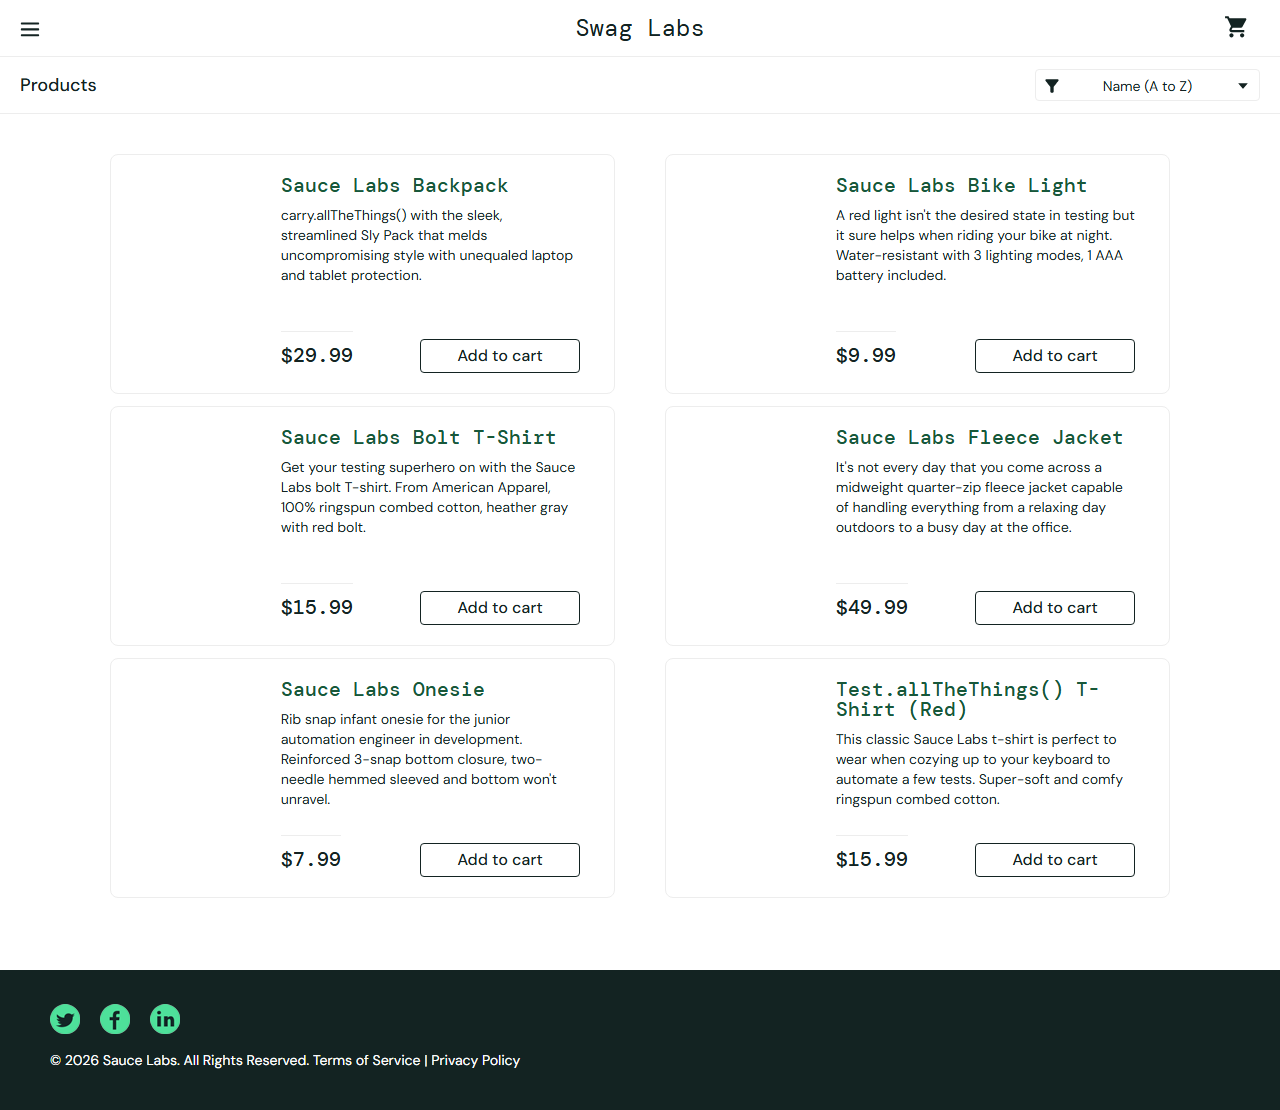
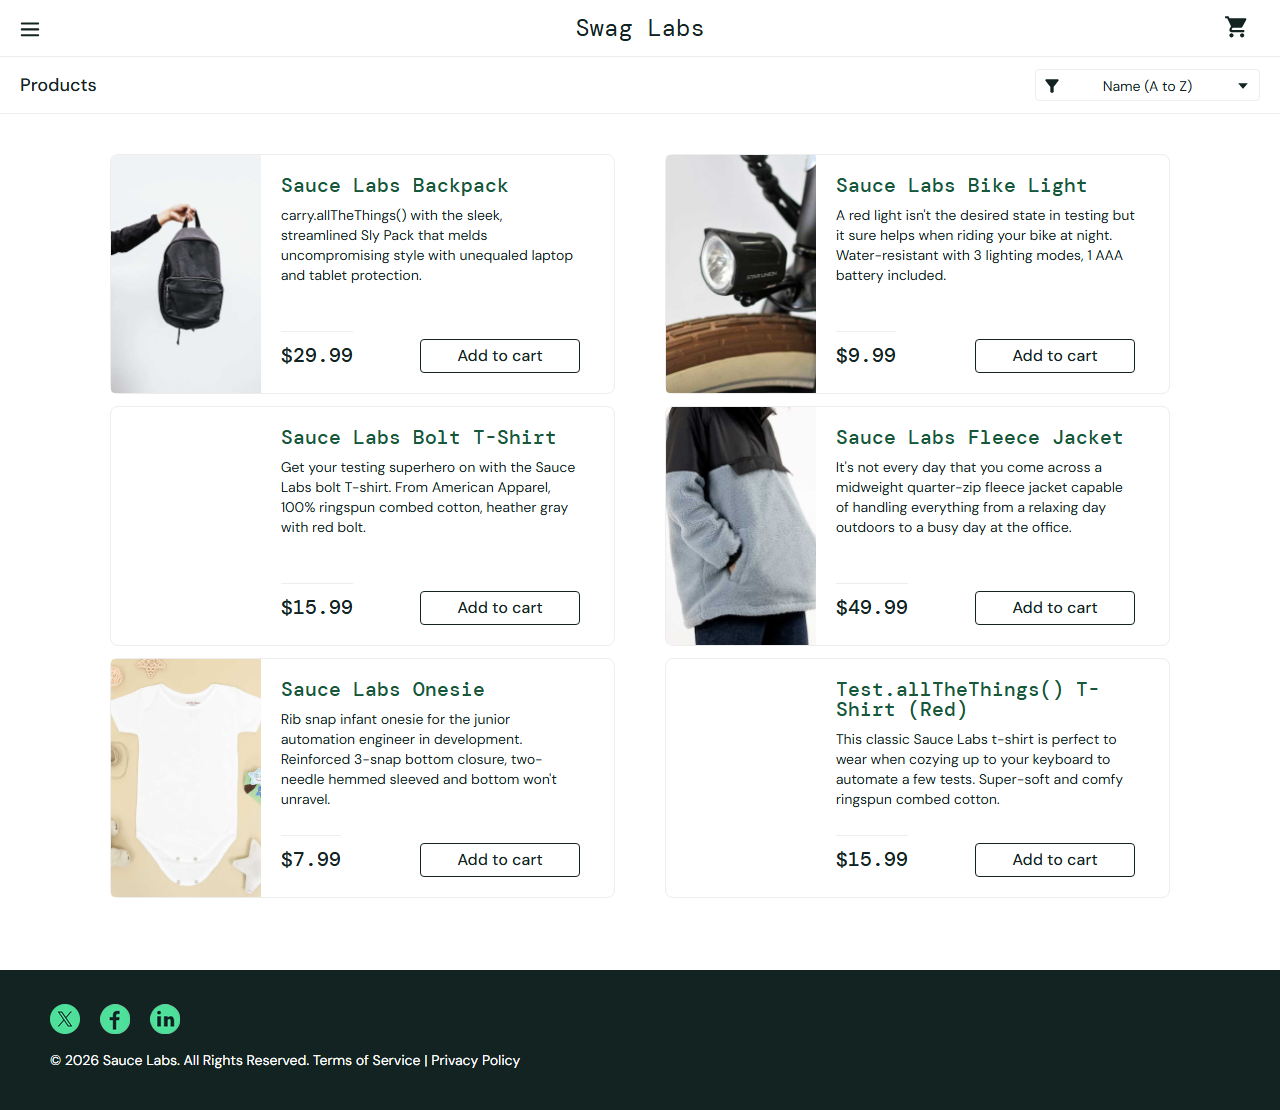
test clase07

diff --git a/tests/clase07.spec.ts b/tests/clase07.spec.ts
@@ -62,78 +62,20 @@ test.describe('Clase 07 - Evidencias de pruebas', () => {
         console.log(`Error capturado: ${textoError}`);
     });
 
-
-    // ─────────────────────────────────────────────────────────────
-    // RETO 1 — test.step()
-    // Cada paso aparece por separado en el reporte HTML y en el trace.
-    // ─────────────────────────────────────────────────────────────
-    test('Reto 1 - Flujo de login estructurado en pasos nombrados', async ({ page }) => {
-        const loginPage = new LoginPage(page);
-        const inventoryPage = new InventoryPage(page);
-
-        await test.step('Navegar a la pagina de login', async () => {
-            await loginPage.navigate();
-            await expect(page.locator('[data-test="login-button"]')).toBeVisible();
-            await page.screenshot({ path: './evidencias/tarea07/reto1-paso1-login.png' });
-        });
-
-        await test.step('Iniciar sesion con standard_user', async () => {
-            await loginPage.login('standard_user', 'secret_sauce');
-            await expect(page).toHaveURL(/inventory/);
-        });
-
-        await test.step('Verificar el inventario cargado', async () => {
-            await inventoryPage.expectToBeOnInventoryPage();
-            await expect(page.locator('.inventory_item')).toHaveCount(6);
-            await page.screenshot({
-                path: './evidencias/tarea07/reto1-paso3-inventario.png', fullPage: true
-            });
-        });
-
-        console.log('Reto 1: test estructurado en 3 pasos nombrados');
+    test('Comparar estados antes y después de una acción', async ({ page }) => {
+         const loginPage = new LoginPage(page);
+         await loginPage.navigate();
+         await loginPage.login('standard_user', 'secret_sauce');
+         // Estado ANTES: sin items en el carrito
+         const estadoAntes = await page.locator('.shopping_cart_badge').isVisible();
+         await page.screenshot({ path: './evidencias/clase07-estado-antes.png' });
+         // Acción
+         await page.locator('.btn_inventory').first().click();
+         // Estado DESPUÉS: badge con número
+         const badgeDespues = page.locator('.shopping_cart_badge');
+         await expect(badgeDespues).toBeVisible();
+         await expect(badgeDespues).toHaveText('1');
+         await page.screenshot({ path: './evidencias/clase07-estado-despues.png' });
+         console.log('Estado antes y después documentados correctamente');
     });
-
-    // ─────────────────────────────────────────────────────────────
-    // RETO 2 — testInfo.attach()
-    // Adjunta un .txt (y un .png) directamente al reporte HTML.
-    // Se accede al segundo parametro del callback: ({ page }, testInfo)
-    // ─────────────────────────────────────────────────────────────
-    test('Reto 2 - Adjuntar datos capturados al reporte HTML', async ({ page }, testInfo) => {
-        const loginPage = new LoginPage(page);
-        await loginPage.navigate();
-        await loginPage.login('standard_user', 'secret_sauce');
-        await expect(page).toHaveURL(/inventory/);
-
-        // Datos capturados en vivo desde la pagina
-        const cantidadProductos = await page.locator('.inventory_item').count();
-        const urlActual = page.url();
-        const fecha = new Date().toLocaleString('es-GT');
-        const primerProducto = await page.locator('.inventory_item_name').first().textContent();
-
-        const contenido = [
-            '=== EVIDENCIA DE EJECUCION - Tarea 07 ===',
-            `Fecha y hora   : ${fecha}`,
-            `URL            : ${urlActual}`,
-            `Navegador      : ${testInfo.project.name}`,
-            `Productos      : ${cantidadProductos}`,
-            `Primer producto: ${primerProducto}`,
-            `Test           : ${testInfo.title}`,
-        ].join('\n');
-
-        // Adjunto 1: archivo de texto con los datos capturados
-        await testInfo.attach('datos-capturados.txt', {
-            body: contenido,
-            contentType: 'text/plain',
-        });
-
-        // Adjunto 2: screenshot en memoria (sin guardarlo en disco)
-        await testInfo.attach('inventario.png', {
-            body: await page.screenshot({ fullPage: true }),
-            contentType: 'image/png',
-        });
-
-        expect(cantidadProductos).toBe(6);
-        console.log(`Reto 2: ${cantidadProductos} productos adjuntados al reporte`);
-    });
-    
 });

diff --git a/reportes/DR-001.md b/reportes/DR-001.md
@@ -1,0 +1,97 @@
+# DR-001 — Reporte de Defecto
+
+| Campo | Valor |
+|---|---|
+| **ID** | DR-001 |
+| **Reportado por** | Brayan Josué Corado Robles — Carné 1790-22-11094 |
+| **Fecha de reporte** | 11 de septiembre de 2026 |
+| **Módulo / Componente** | Carrito de compras — contador (badge) del ícono del carrito |
+| **Severidad** | Media |
+| **Prioridad** | Media |
+| **Estado** | Cerrado — defecto simulado, no reproducible en el sistema real |
+| **Tipo** | Funcional (Adecuación funcional — ISO/IEC 25010) |
+
+---
+
+## Título
+
+El contador del carrito muestra "1" en lugar de "2" después de agregar un producto al carrito.
+
+## Ambiente de pruebas
+
+| Elemento | Detalle |
+|---|---|
+| Aplicación bajo prueba | https://www.saucedemo.com |
+| Navegador | Chromium (Desktop Chrome) — modo headless |
+| Sistema operativo | Windows |
+| Framework | Playwright con TypeScript |
+| Archivo de prueba | `tests/clase07.spec.ts` (línea 77) |
+| Caso de prueba | "Comparar estados antes y después de una acción" |
+
+## Precondiciones
+
+- El usuario `standard_user` existe y está habilitado.
+- El carrito se encuentra vacío al iniciar la sesión.
+
+## Pasos para reproducir
+
+1. Navegar a https://www.saucedemo.com
+2. Iniciar sesión con el usuario `standard_user` y la contraseña `secret_sauce`.
+3. Verificar que la URL corresponde a la página de inventario.
+4. Confirmar que el badge del carrito no está visible (carrito vacío).
+5. Hacer clic en el botón "Add to cart" del primer producto del listado.
+6. Observar el valor numérico del badge del ícono del carrito.
+
+## Resultado esperado
+
+El badge del carrito muestra el texto **"2"**.
+
+## Resultado obtenido
+
+El badge del carrito muestra el texto **"1"**.
+
+```
+Error: expect(locator).toHaveText(expected) failed
+
+Locator: locator('.shopping_cart_badge')
+Expected string: "2"
+Received string: "1"
+Timeout: 5000ms
+
+Call log:
+  - Expect "toHaveText" with timeout 5000ms
+  - waiting for locator('.shopping_cart_badge')
+  14 x locator resolved to <span class="shopping_cart_badge" data-test="shopping-cart-badge">1</span>
+     - unexpected value "1"
+
+  at C:\Users\brayn\Desktop\DOCS DEV\prueba_qa\tests\clase07.spec.ts:77:37
+```
+
+El test se ejecutó dos veces por la configuración `retries: 1` y falló en ambos intentos (Run 6.8s y Retry #1 7.2s), lo que confirma que el fallo es determinista y no intermitente.
+
+## Evidencia
+
+Generada automáticamente por Playwright con `screenshot: 'on'`, `video: 'on'` y `trace: 'on'` en `playwright.config.ts`:
+
+- **Screenshot del fallo (incluido en el repositorio):** `evidencias/clase07/DR-001-fallo-badge.png` — captura el momento exacto en que la aserción falla, con el badge visible mostrando "1".
+- **Screenshots del caso de prueba:** `evidencias/clase07-estado-antes.png` y `evidencias/clase07-estado-despues.png` — estado del carrito antes y después de la acción.
+- **Video de la ejecución:** `test-results/clase07-Clase-07---Evidenc-bb408-tes-y-después-de-una-acción-chromium/video.webm` — muestra el recorrido completo: login, carga del inventario, clic en "Add to cart" y aparición del badge.
+- **Traza:** `test-results/clase07-Clase-07---Evidenc-bb408-tes-y-después-de-una-acción-chromium/trace.zip` — permite revisar paso a paso la línea de tiempo, las peticiones de red y los logs de consola.
+
+Para abrir la traza:
+
+```powershell
+npx playwright show-trace "test-results\clase07-Clase-07---Evidenc-bb408-tes-y-después-de-una-acción-chromium\trace.zip"
+```
+
+> Nota: la carpeta `test-results/` se regenera en cada ejecución y está excluida del control de versiones, por lo que el screenshot del fallo fue copiado a `evidencias/clase07/` para que quede disponible en el repositorio.
+
+## Análisis (error / defecto / fallo)
+
+- **Error:** modificación intencional del valor esperado en la aserción del caso de prueba, de `'1'` a `'2'`.
+- **Defecto:** la línea `await expect(badgeDespues).toHaveText('2');` queda en el código de prueba con un valor esperado que no corresponde al comportamiento real del sistema.
+- **Fallo:** al ejecutar la suite, el test falla y Playwright reporta la diferencia entre el valor esperado y el obtenido, junto con el elemento del DOM que resolvió el locator.
+
+## Observaciones
+
+Este defecto fue **simulado deliberadamente** como parte del Laboratorio 07, con el fin de generar y analizar la evidencia automática de un fallo. El comportamiento de la aplicación es correcto: agregar un solo producto debe reflejar "1" en el badge. El valor esperado fue revertido a `'1'` y la suite completa vuelve a ejecutarse sin fallos, por lo que el defecto no existe en el sistema bajo prueba.
